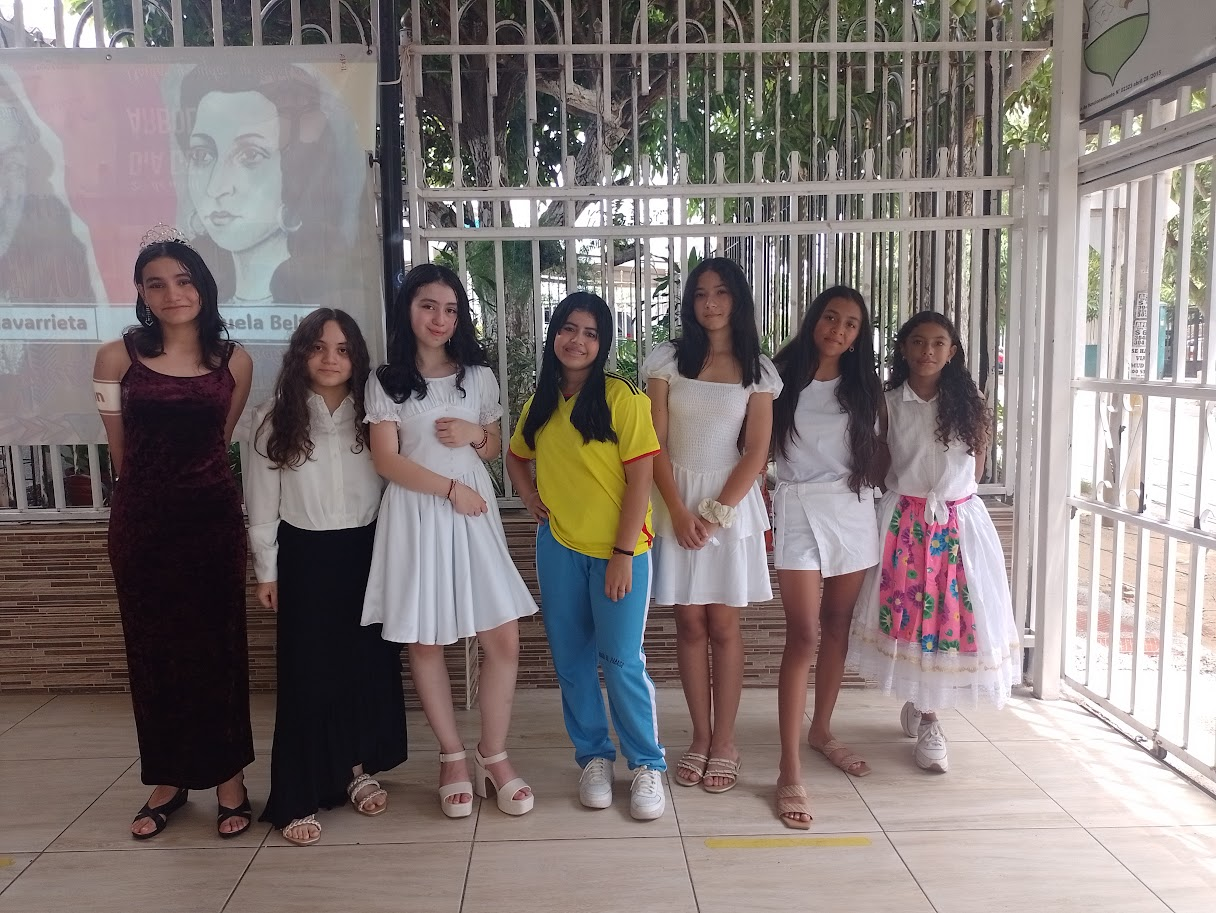
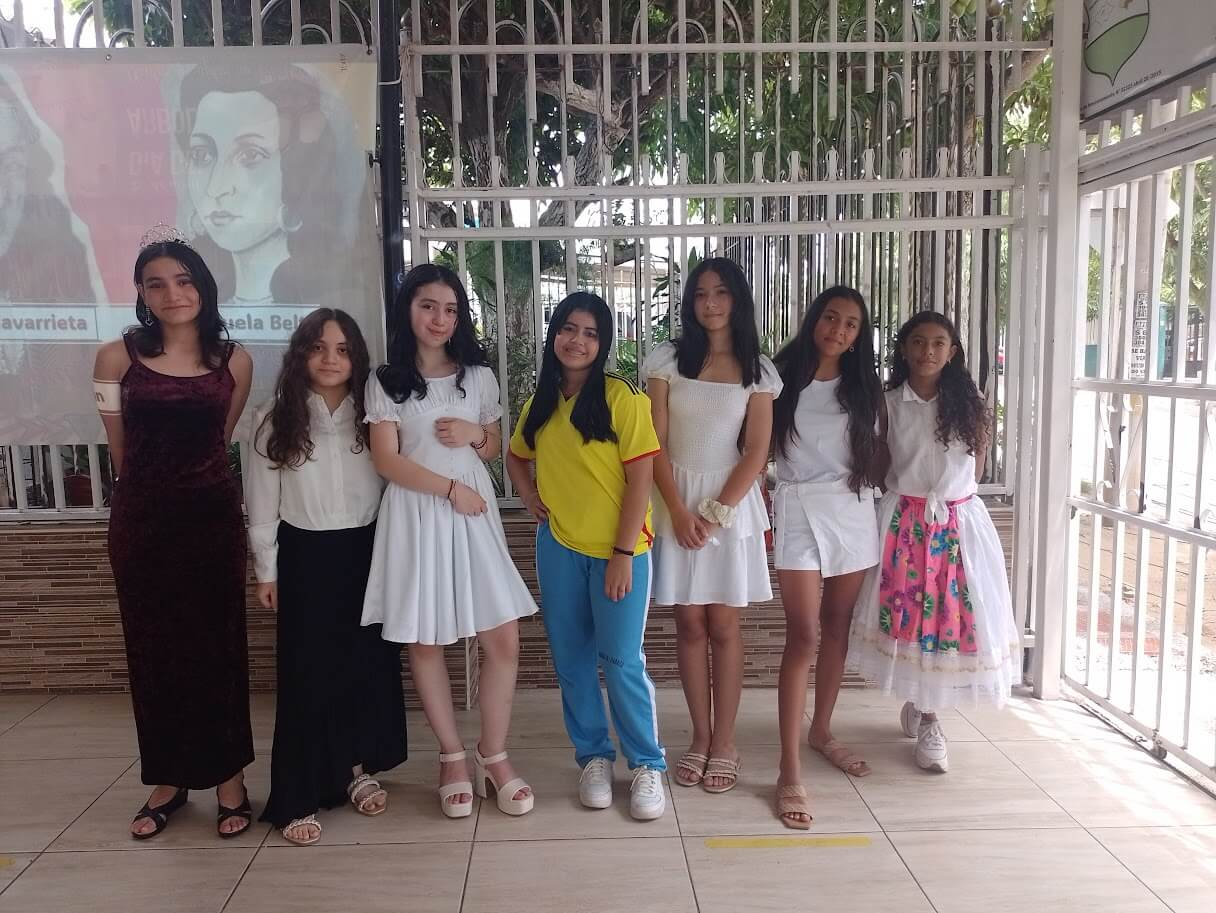
photos size reduction

Changed region(s): [[0.5, 0.3987, 0.5312, 0.4294], [0.3438, 0.1533, 0.375, 0.184]]

diff --git a/src/pages/Home.tsx b/src/pages/Home.tsx
@@ -2,12 +2,12 @@
 import { ChevronRight, Award, Users, BookOpen } from 'lucide-react'
 import { Link } from 'react-router-dom'
 import { useState, useEffect } from 'react'
-import Portada from '../assets/home.jpg'
+import Portada from '../assets/home.webp'
 import { SCHOOL_INFO } from '../utils/constants'
-import Home1 from '../assets/us/home1.jpg';
-import Home2 from '../assets/us/home2.jpg';
-import Home3 from '../assets/us/home3.jpg';
-import Home4 from '../assets/us/home4.jpg';
+import Home1 from '../assets/us/home1.webp';
+import Home2 from '../assets/us/home2.webp';
+import Home3 from '../assets/us/home3.webp';
+import Home4 from '../assets/us/home4.webp';
 
 import Moments1 from '../assets/moments/acc1.jpg';
 import Moments2 from '../assets/moments/acc2.jpg';

diff --git a/src/pages/Calendario.tsx b/src/pages/Calendario.tsx
@@ -1,7 +1,7 @@
 import { Calendar, Clock } from 'lucide-react'
 import { useState, useMemo, useEffect } from 'react'
 import calendar2025 from '../assets/calendar/calendar2025.json'
-import Portada from '../assets/home.jpg'
+import Portada from '../assets/home.webp'
 import CalendarView from '../components/calendar/CalendarView'
 
 function Calendario() {

diff --git a/src/pages/About.tsx b/src/pages/About.tsx
@@ -1,6 +1,6 @@
 import { Award, Target, Eye, Heart, BookOpen } from 'lucide-react'
 import { SCHOOL_INFO } from '../utils/constants';
-import Nosotros from '../assets/home.jpg'
+import Nosotros from '../assets/home.webp'
 
 import PsicologaImg from '../assets/work_team/psicologa.webp'
 import CoordinadoraImg from '../assets/work_team/coordinadora.webp'

diff --git a/src/pages/SchoolLife.tsx b/src/pages/SchoolLife.tsx
@@ -4,7 +4,7 @@ import Moments1 from '../assets/moments/acc1.jpg';
 import Moments2 from '../assets/moments/acc2.jpg';
 import Moments3 from '../assets/moments/acc3.jpg';
 import Moments4 from '../assets/moments/acc4.jpg';
-import home from '../assets/home.jpg'
+import home from '../assets/home.webp'
 
 function SchoolLife() {
   const years = [

diff --git a/src/pages/Contact.tsx b/src/pages/Contact.tsx
@@ -2,7 +2,7 @@ import { MapPin, Phone, Mail, Clock, MessageCircle, Send } from 'lucide-react'
 import { SCHOOL_INFO, CONTACT_INFO } from '../utils/constants'
 import faqsData from '../assets/questions/questions.json'
 
-import ContactImage from '../assets/home.jpg'
+import ContactImage from '../assets/home.webp'
 
 function Contact() {
 

diff --git a/src/components/layout/Footer.tsx b/src/components/layout/Footer.tsx
@@ -1,6 +1,6 @@
 import { MapPin, Phone, Mail, Clock, Instagram } from 'lucide-react'
 import { Link } from 'react-router-dom'
-import logo from '../../assets/logo.png'
+import logo from '../../assets/logo.webp'
 import { SCHOOL_INFO } from '../../utils/constants'
 import { CONTACT_INFO } from '../../utils/constants'
 

diff --git a/src/pages/Admissions.tsx b/src/pages/Admissions.tsx
@@ -1,5 +1,5 @@
 import { MessageCircle, User, Calendar, CheckCircle, AlertCircle, GraduationCap, Users, Heart, Clock } from 'lucide-react'
-import Admissions_img from '../assets/home.jpg'
+import Admissions_img from '../assets/home.webp'
 import { CONTACT_INFO } from '../utils/constants'
 
 function Admissions() {

diff --git a/index.html b/index.html
@@ -3,7 +3,7 @@
   <head>
     <meta charset="UTF-8" />
     <base href="/" />
-    <link rel="icon" type="image/png" href="/logo.png" />
+    <link rel="icon" type="image/png" href="/logo.webp" />
     <meta name="viewport" content="width=device-width, initial-scale=1.0" />
     <title>GIMPA</title>
   </head>

diff --git a/src/components/layout/Header.tsx b/src/components/layout/Header.tsx
@@ -1,4 +1,4 @@
-import logo from '../../assets/logo.png'
+import logo from '../../assets/logo.webp'
 import { Link, useLocation } from 'react-router-dom'
 import { User, Menu, X } from 'lucide-react'
 import { useState, useEffect} from 'react'
